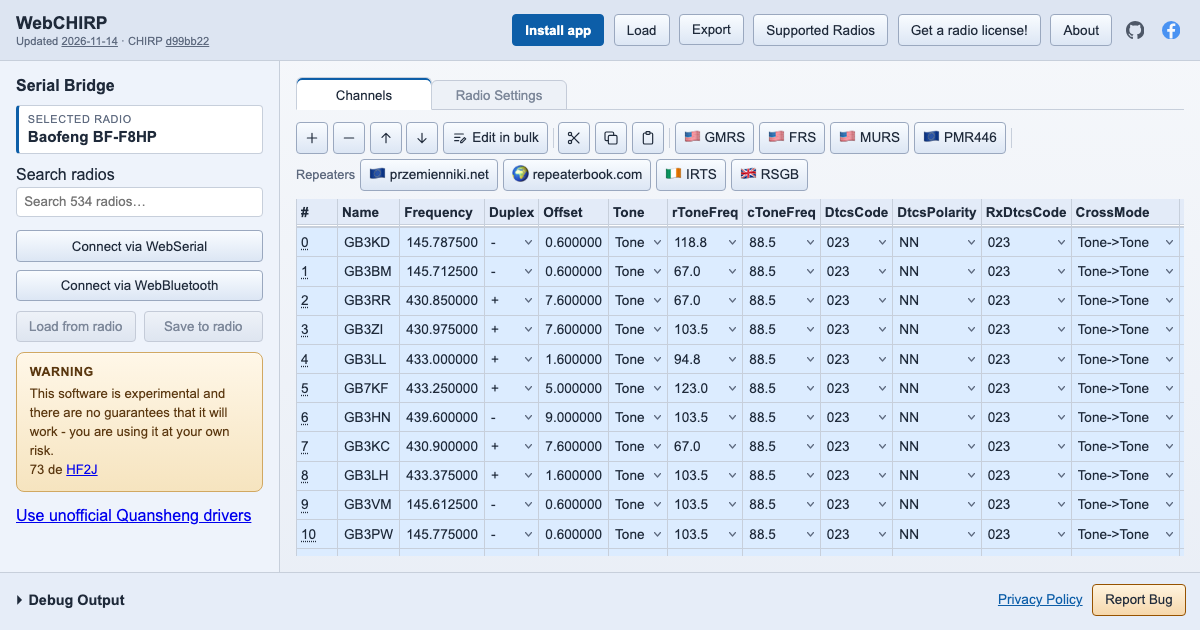
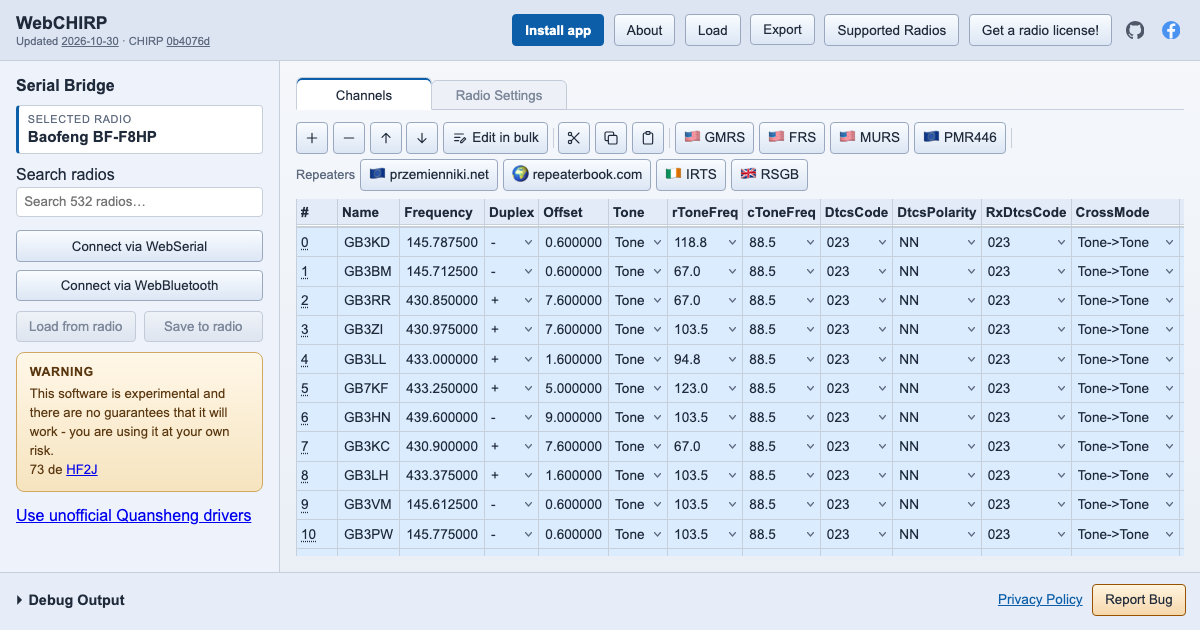
Revert November 14 release notes
Remove the newly added release section and restore the previous site, social-preview and install-dialog screenshots.

Changed region(s): [[0.5242, 0.0302, 0.925, 0.0905], [0.0925, 0.0603, 0.185, 0.0905]]

diff --git a/RELEASE_NOTES.md b/RELEASE_NOTES.md
@@ -1,16 +1,5 @@
 # Release Notes
 
-## 2026-11-14
-- Radios with a built-in FFE0/FFE1 Bluetooth UART, tested with the Baofeng UV-5R Mini, can now download and upload directly through Web Bluetooth without a separate adapter (#315).
-- Updated the bundled CHIRP to d99bb227, adding the Wouxun KG-WV50, Zastone ZT-D9000 and BTECH UV-PRO drivers plus the Wouxun KG-945G alias, and fixing FT-450D, IC-V80, Kenwood TK-8160/TK-8180 and Alinco DR-735T behaviour (#316).
-- On phones, the toolbar now folds behind one toggle, opens within the page header instead of covering it, and keeps the Offline badge clear of Load and Export (#312).
-- The repeater query modal now fills a phone screen, keeps its map centred and lets a pinch gesture set the search range (#313, #314).
-- Place-name suggestions are now limited to the countries supported by the selected repeater directory (#306).
-- The Serial Bridge warning and driver-set link now fold with the section and have a clear expand/collapse toggle (#308).
-- The Play Store listing, phone screenshots and Data safety answers now live in the repository and can be uploaded together through fastlane (#309).
-- webchirp.org is now served only by Cloudflare Pages, and the privacy policy names Cloudflare as its sole hosting provider (#307).
-- Deploys now give hashed assets immutable caching and ship only the active CHIRP bundle instead of leftover pins (#304).
-
 ## 2026-10-30
 - Added the Android app (`com.hf2j.webchirp`), a Trusted Web Activity that opens webchirp.org full-screen once the site's Digital Asset Links trust its Play signing key; the Install button is hidden inside it (#265, #268, #270, #301).
 - Google Analytics now loads and sets cookies only after Accept on a consent banner, and a privacy policy is linked from inside the app (#271, #272).
